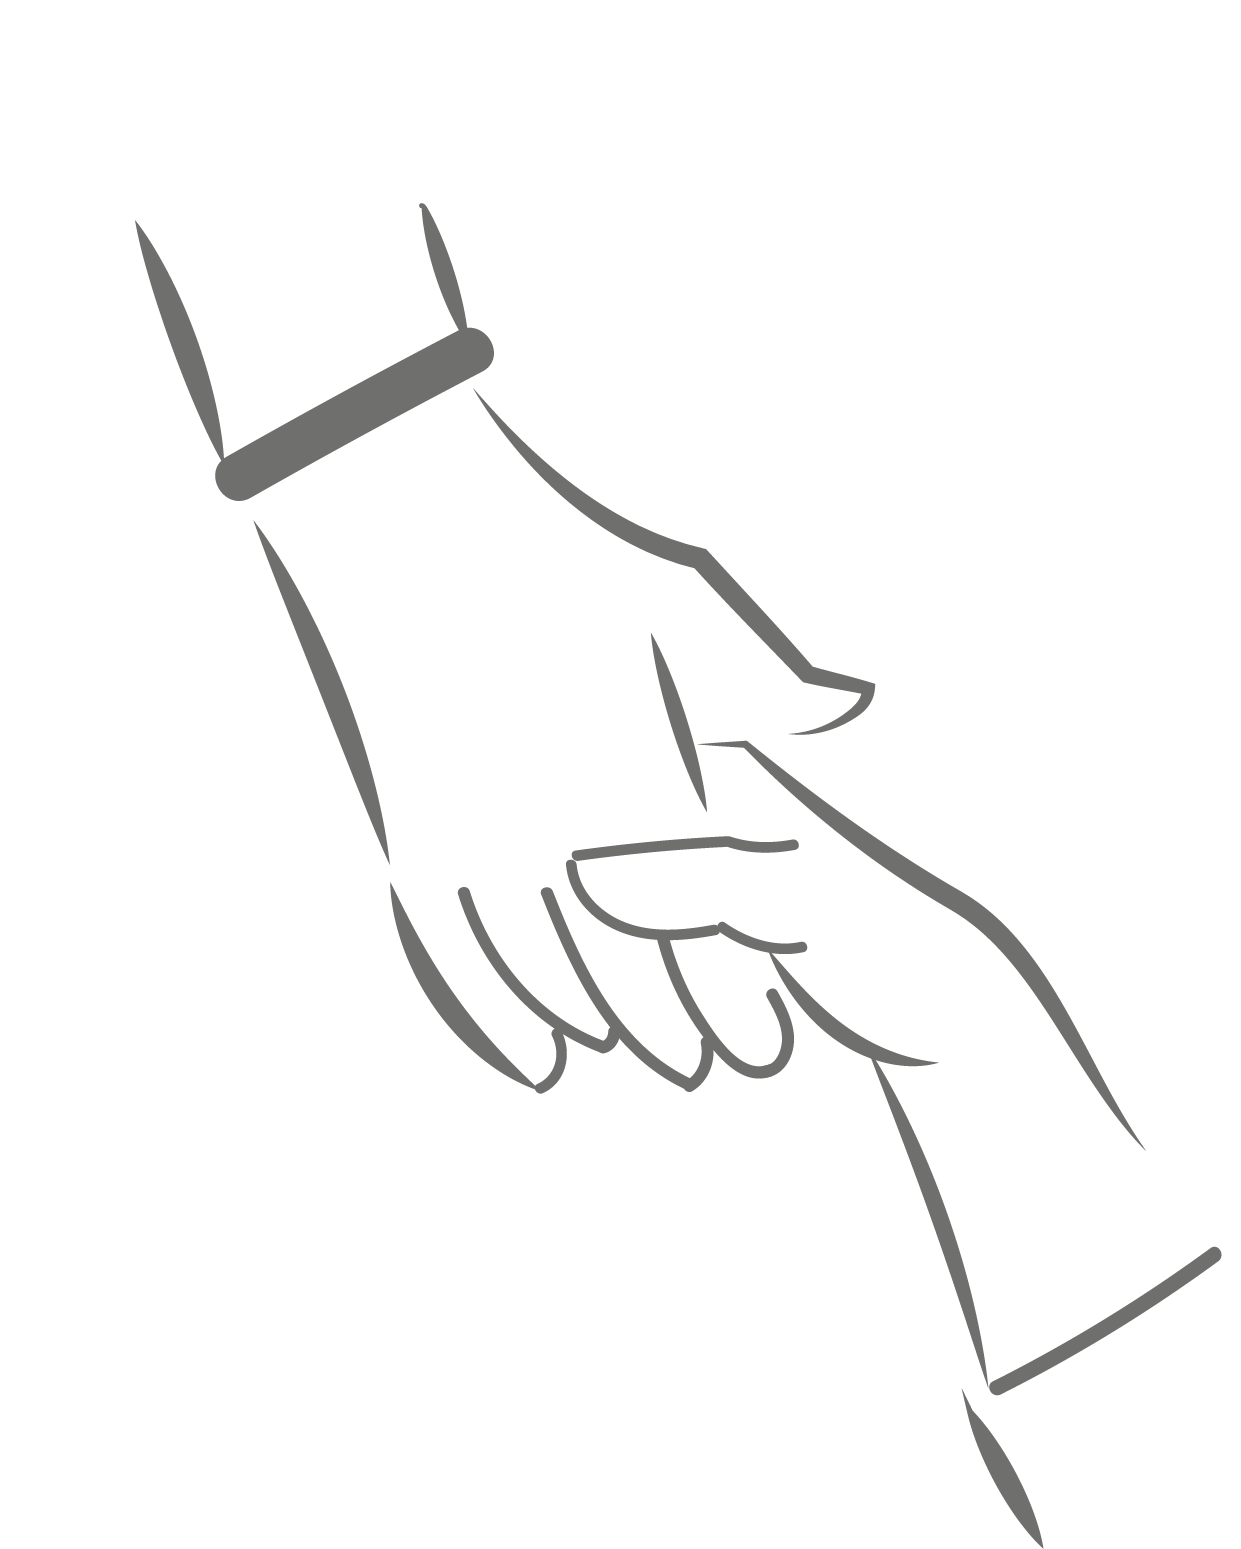
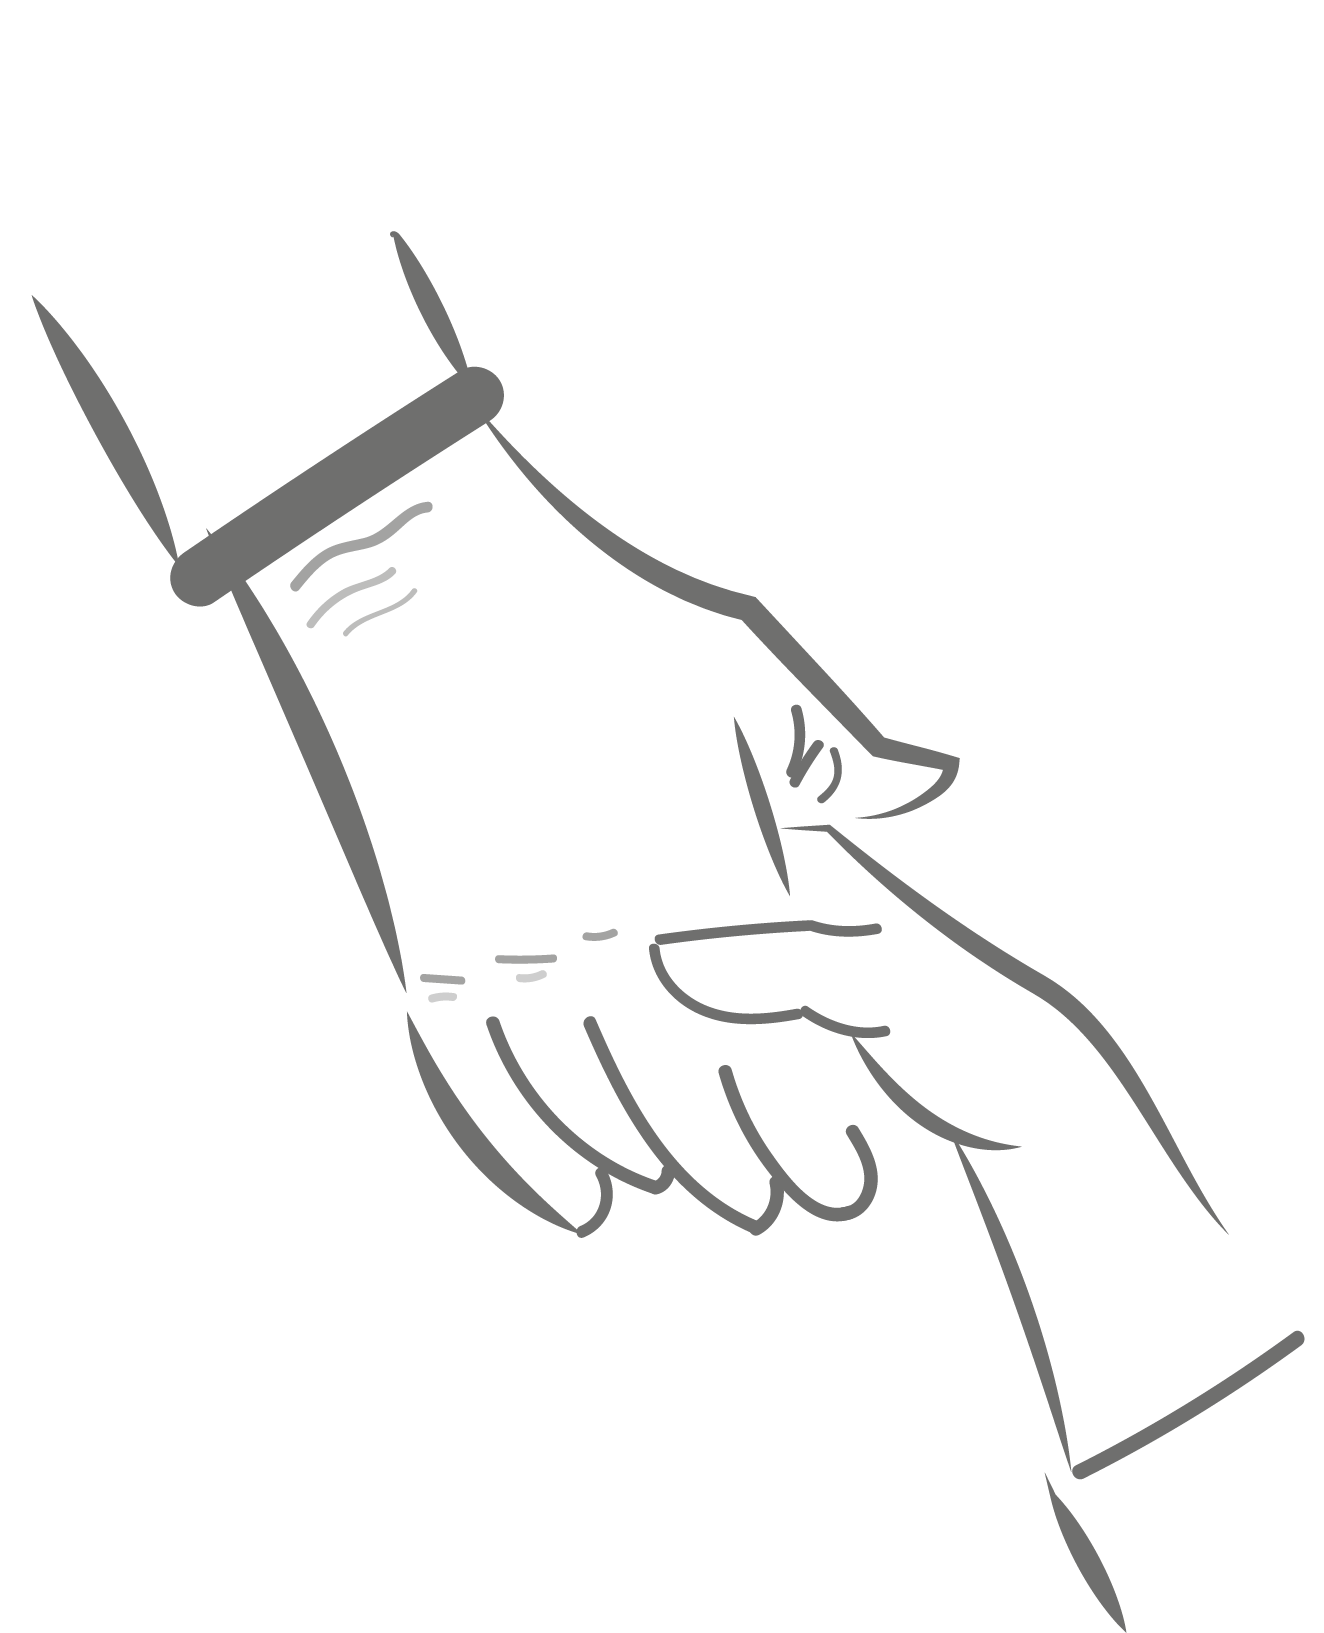
nueva correción en el iconos-2-14.png y cambios en el css para ajustarle el tamaño. He añadido un id a su figure

diff --git a/olentzero.html b/olentzero.html
@@ -53,7 +53,7 @@
           <figure><img src="img/iconos2-01.png" alt="" /></figure>
           <p class="formulario padding-left-aumentar">- Si al enviar la carta al Olentzero, vas de la mano de tu amama o de tu aitite, las cartas nos llegan más rápido.</p>
 
-          <figure><img src="img/iconos2-02.png" alt="" /></figure>
+          <figure id="escribe"><img src="img/iconos2-02.png" alt="" /></figure>
           <p class="formulario padding-left-aumentar">- Si escribes de tu propia mano la carta llega antes, también vale que te ayude aita o amatxu.</p>
         </article>
 

diff --git a/css/estilos2.css b/css/estilos2.css
@@ -212,6 +212,10 @@ script {
   width: 50%;
 }
 
+#escribe img {
+  width: 55%;
+}
+
 #de-la-mano {
   display: none;
 }
